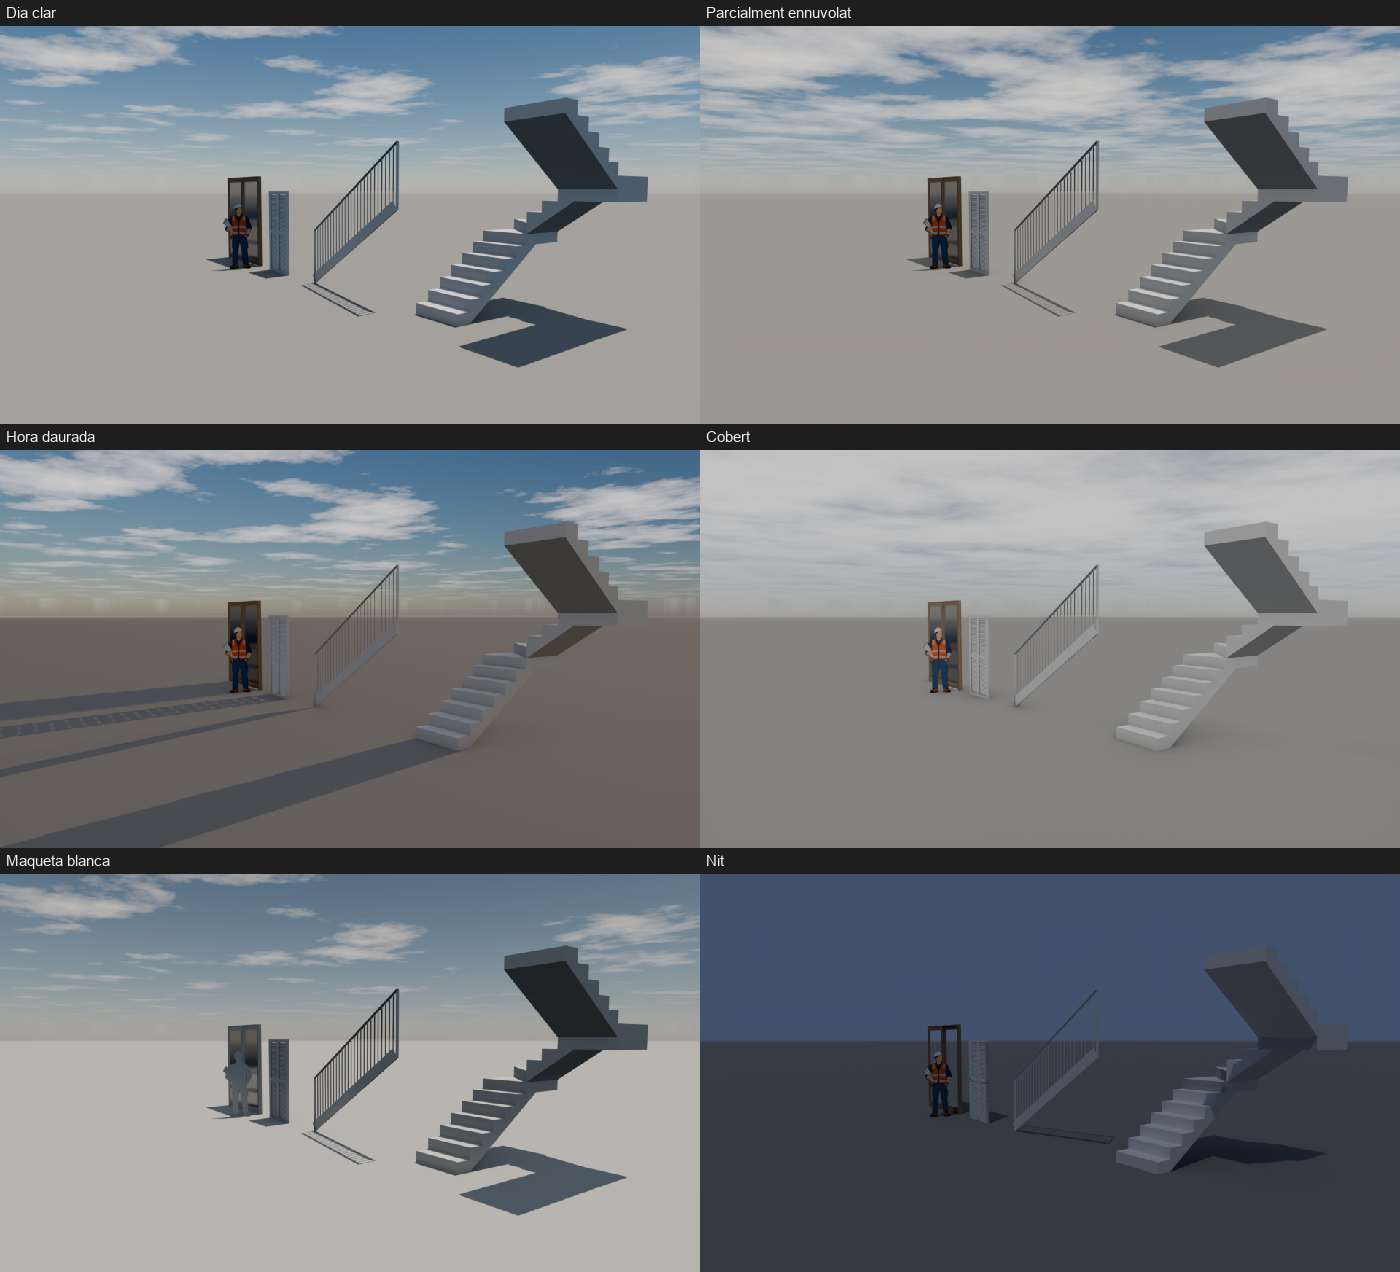
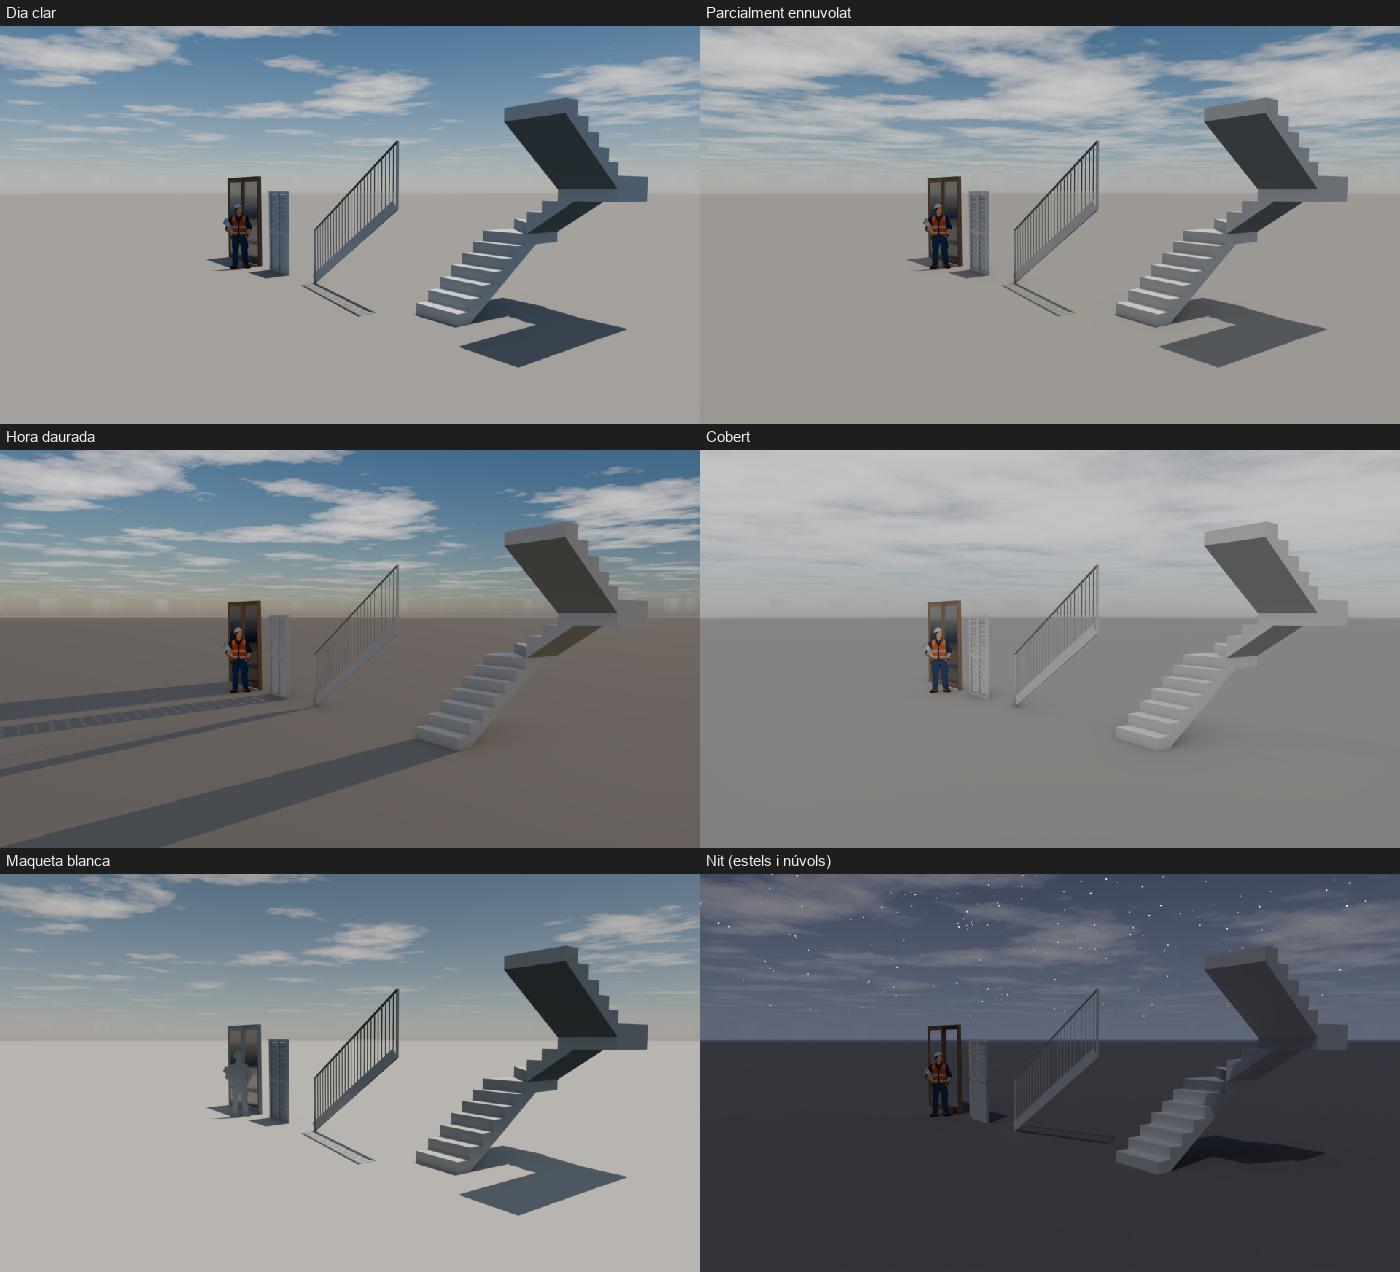
README: night with stars and clouds

Changed region(s): [[0.4914, 0.6745, 0.8907, 0.8278], [0.8907, 0.7052, 1.0, 0.8278]]

diff --git a/README.md b/README.md
@@ -19,7 +19,7 @@ It drives the same Blender that IngeTrazo's own Render tab uses (Blender
 | Overcast | Soft sun through full cloud cover, low contrast |
 | White model | Every material white (study model), neutral finish |
 | Interior | Exposed for the room, window allowed to burn out; switches to **Cycles** (EEVEE can't fill a window-lit room) |
-| Night | Moonlight kept dark, the document's lamps glow (light bloom) |
+| Night | Moonlight kept dark, stars and moonlit clouds; the document's lamps glow (light bloom) |
 
 Every look shares:
 - **Automatic exposure.** A quarter-size pre-render is metered, with a
@@ -28,6 +28,8 @@ Every look shares:
 - **Distance haze.** The ground fades into the horizon sky.
 - **Albedo capped at 80 %.** Paper-white surfaces don't glow under a path tracer.
 - **Finish.** A light saturation and vignette pass in Blender's compositor.
+
+![Night with the document's lamps](docs/night.png)
 
 ![Interior and live adjustments](docs/interior.png)
 
